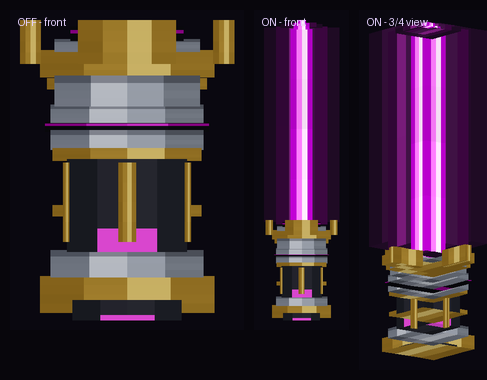
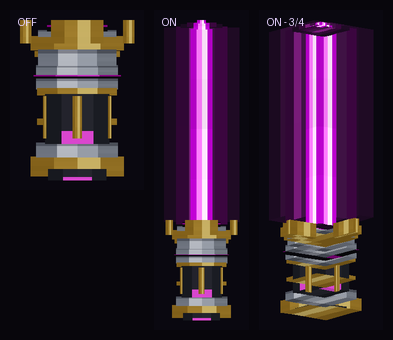
Vista previa del modelo y avancement de receta

diff --git a/tools/preview_model.py b/tools/preview_model.py
@@ -205,16 +205,15 @@ def render(model_name: str, yaw_deg: float, pitch_deg: float, target_height_px: 
 
 
 def main():
-    a = render("lightsaber", 0, 0, 300, "OFF - front")
-    b = render("lightsaber_on", 0, 0, 300, "ON - front")
-    c = render("lightsaber_on", 38, 12, 340, "ON - 3/4 view")
-    d = render("lightsaber", 38, 12, 200, "OFF - 3/4 view")
+    a = render("lightsaber", 0, 0, 160, "OFF")
+    b = render("lightsaber_on", 0, 0, 300, "ON")
+    c = render("lightsaber_on", 38, 12, 300, "ON - 3/4")
 
-    w = a.width + b.width + c.width + 20
+    w = a.width + b.width + c.width + 40
     h = max(a.height, b.height, c.height) + 20
     sheet = Image.new("RGBA", (w, h), (8, 6, 12, 255))
     x = 10
-    for im in (a, b, c, d):
+    for im in (a, b, c):
         sheet.alpha_composite(im, (x, 10))
         x += im.width + 10
     sheet.save(OUT)

diff --git a/README.md b/README.md
@@ -2,6 +2,8 @@
 
 A Forge mod for **Minecraft 1.21.1** that adds a hand-modeled gold-and-silver lightsaber with a blazing magenta plasma blade.
 
+![Magenta Lightsaber](preview.png)
+
 ## Features
 
 - Detailed 3D hilt with gold, silver, dark grip and a magenta kyber crystal ring.
